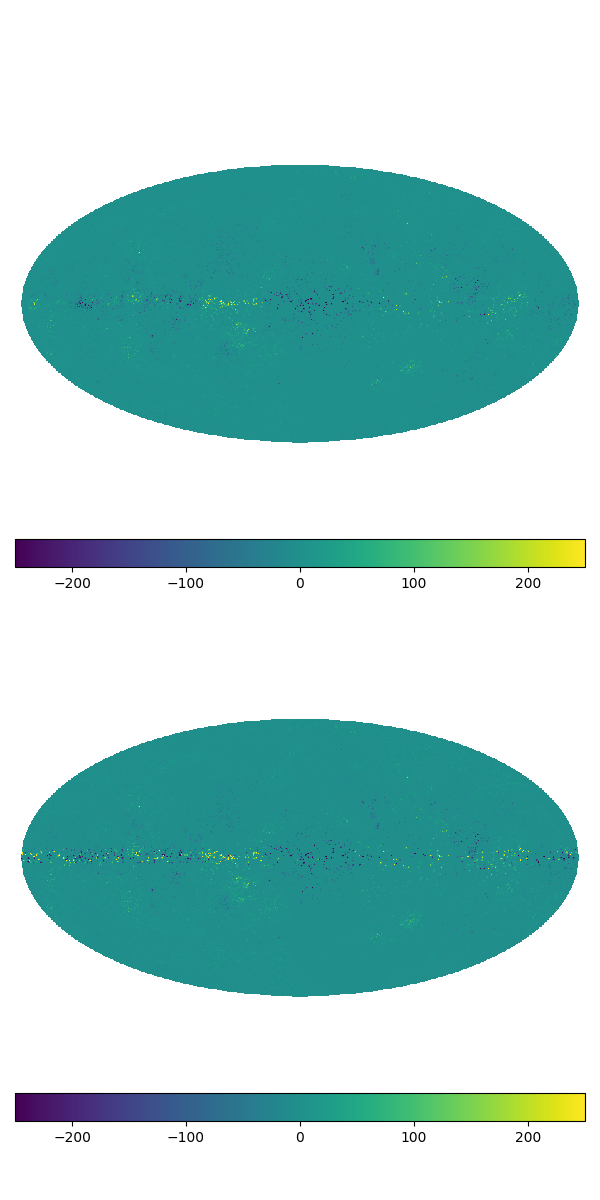
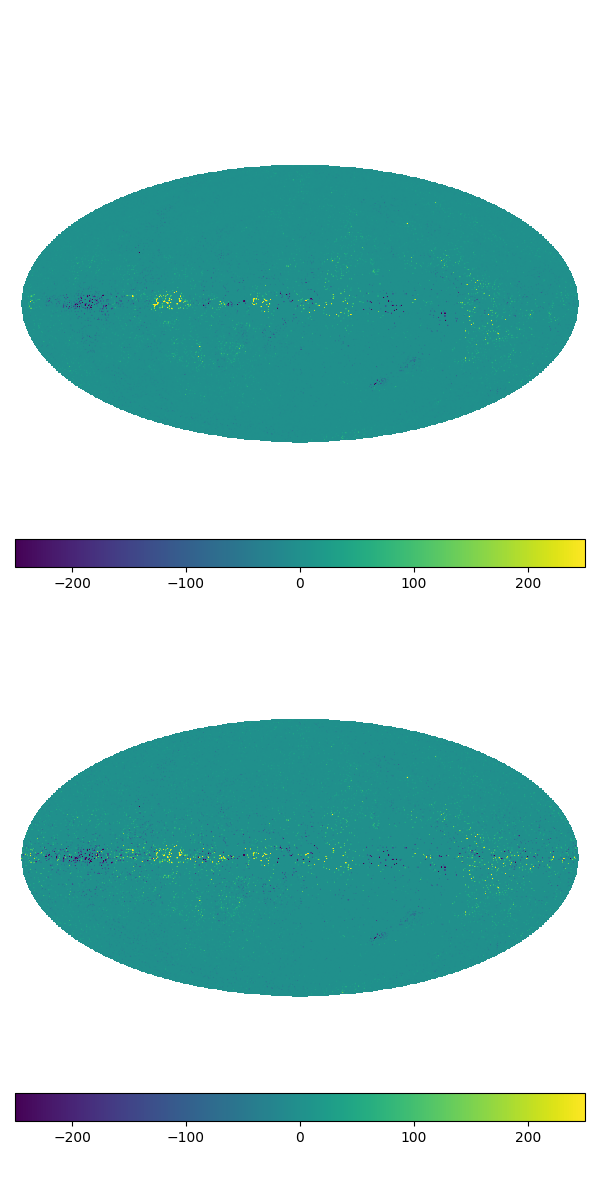
Noise inference, variable sigma in mock catalog.

Changed region(s): [[0.12, 0.7092, 0.18, 0.74], [0.27, 0.7092, 0.3, 0.74], [0.27, 0.2467, 0.3, 0.2775]]

diff --git a/catalog_maker.py b/catalog_maker.py
@@ -130,21 +130,38 @@ class CatalogMaker():
             npi_indices=np.unique(np.random.choice(b_indices, size=self.params['params_mock_cat.maker_params.npi_los']))
             print(npi_indices)
             print(npi_indices.size)
+            print(ltheta-lerm)
             for item in b_indices:
                 if item in npi_indices:
-                    if np.abs(eg_b[item])>=10.0:
-                        delta_rm=np.sqrt(2.5)
+                    if np.abs(eg_b[item])>=25.0:
+                        mu_rm=0.0 #(2.5)
+                        sigma_rm=25.0
+                        delta_rm=np.random.normal(mu_rm, sigma_rm)
                         rm_data[item] += delta_rm
                         delta_rm_list.append(delta_rm)
-                    if np.abs(eg_b[item])>=0.0 and np.abs(eg_b[item])<10.0:
-                        delta_rm=np.sqrt(4.0e6*np.exp(-(eg_b[item])**2/8.0)/np.sqrt(8.0*np.pi)+2.5)
-                        print(delta_rm)
+                    else:
+                        sigma_rm= 800.0*np.exp(-np.abs(eg_b[item])**(1/3.0)) #250.0-5.0*np.exp(-np.abs(eg_b[item]))
+                        mu_rm=0.0 #np.sqrt(4.0e6*np.exp(-(eg_b[item])**2/(2*4))/np.sqrt(2*np.pi*4)+2.5)
+                        delta_rm=np.random.normal(mu_rm, sigma_rm)
                         if random.choice('+-')=='-':
                             rm_data[item] -= delta_rm
                             delta_rm_list.append(-delta_rm)
                         else:
                             rm_data[item] += delta_rm
-                            delta_rm_list.append(delta_rm)
+                            delta_rm_list.append(delta_rm) 
+                    #if np.abs(eg_b[item])>=10.0:
+                    #    delta_rm=np.sqrt(2.5)
+                    #    rm_data[item] += delta_rm
+                    #    delta_rm_list.append(delta_rm)
+                    #if np.abs(eg_b[item])>=0.0 and np.abs(eg_b[item])<10.0:
+                    #    delta_rm=np.sqrt(4.0e6*np.exp(-(eg_b[item])**2/8.0)/np.sqrt(8.0*np.pi)+2.5)
+                    #    print(delta_rm)
+                    #    if random.choice('+-')=='-':
+                    #        rm_data[item] -= delta_rm
+                    #        delta_rm_list.append(-delta_rm)
+                    #    else:
+                    #        rm_data[item] += delta_rm
+                    #        delta_rm_list.append(delta_rm)
 
                 #else:
                 #    np.random.seed(seed=self.params['params_mock_cat.maker_params.seed'])
